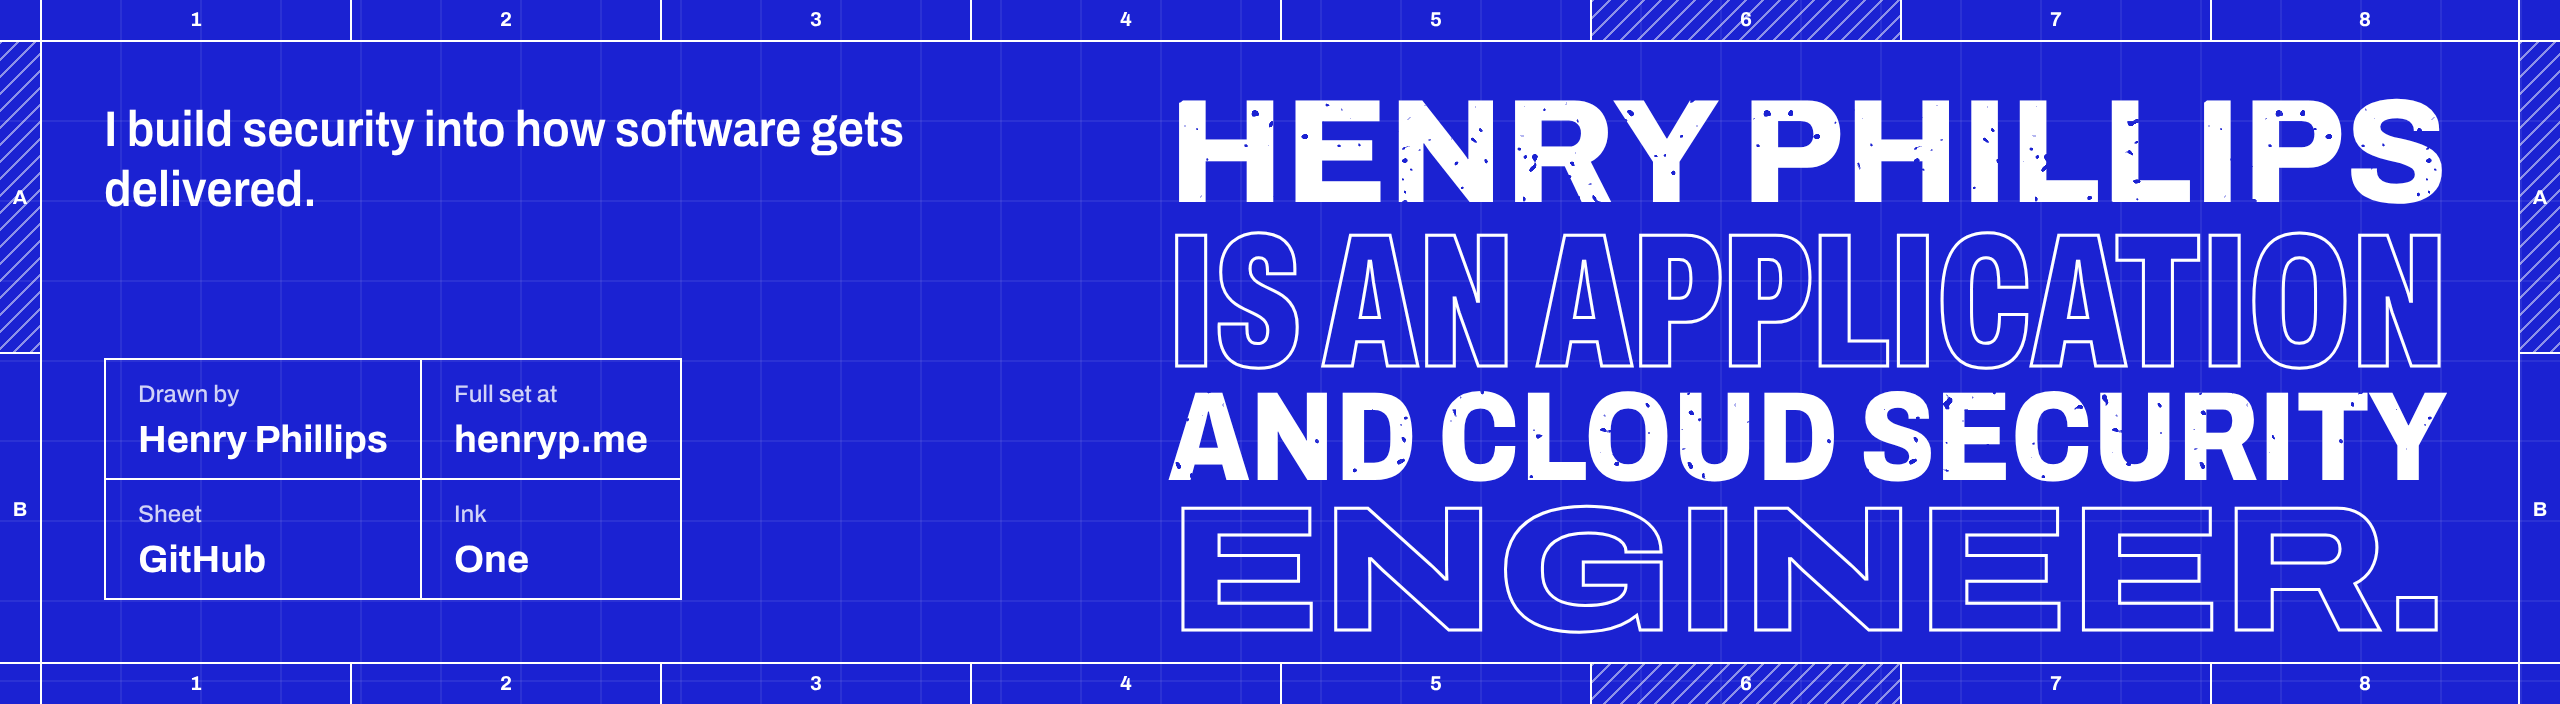
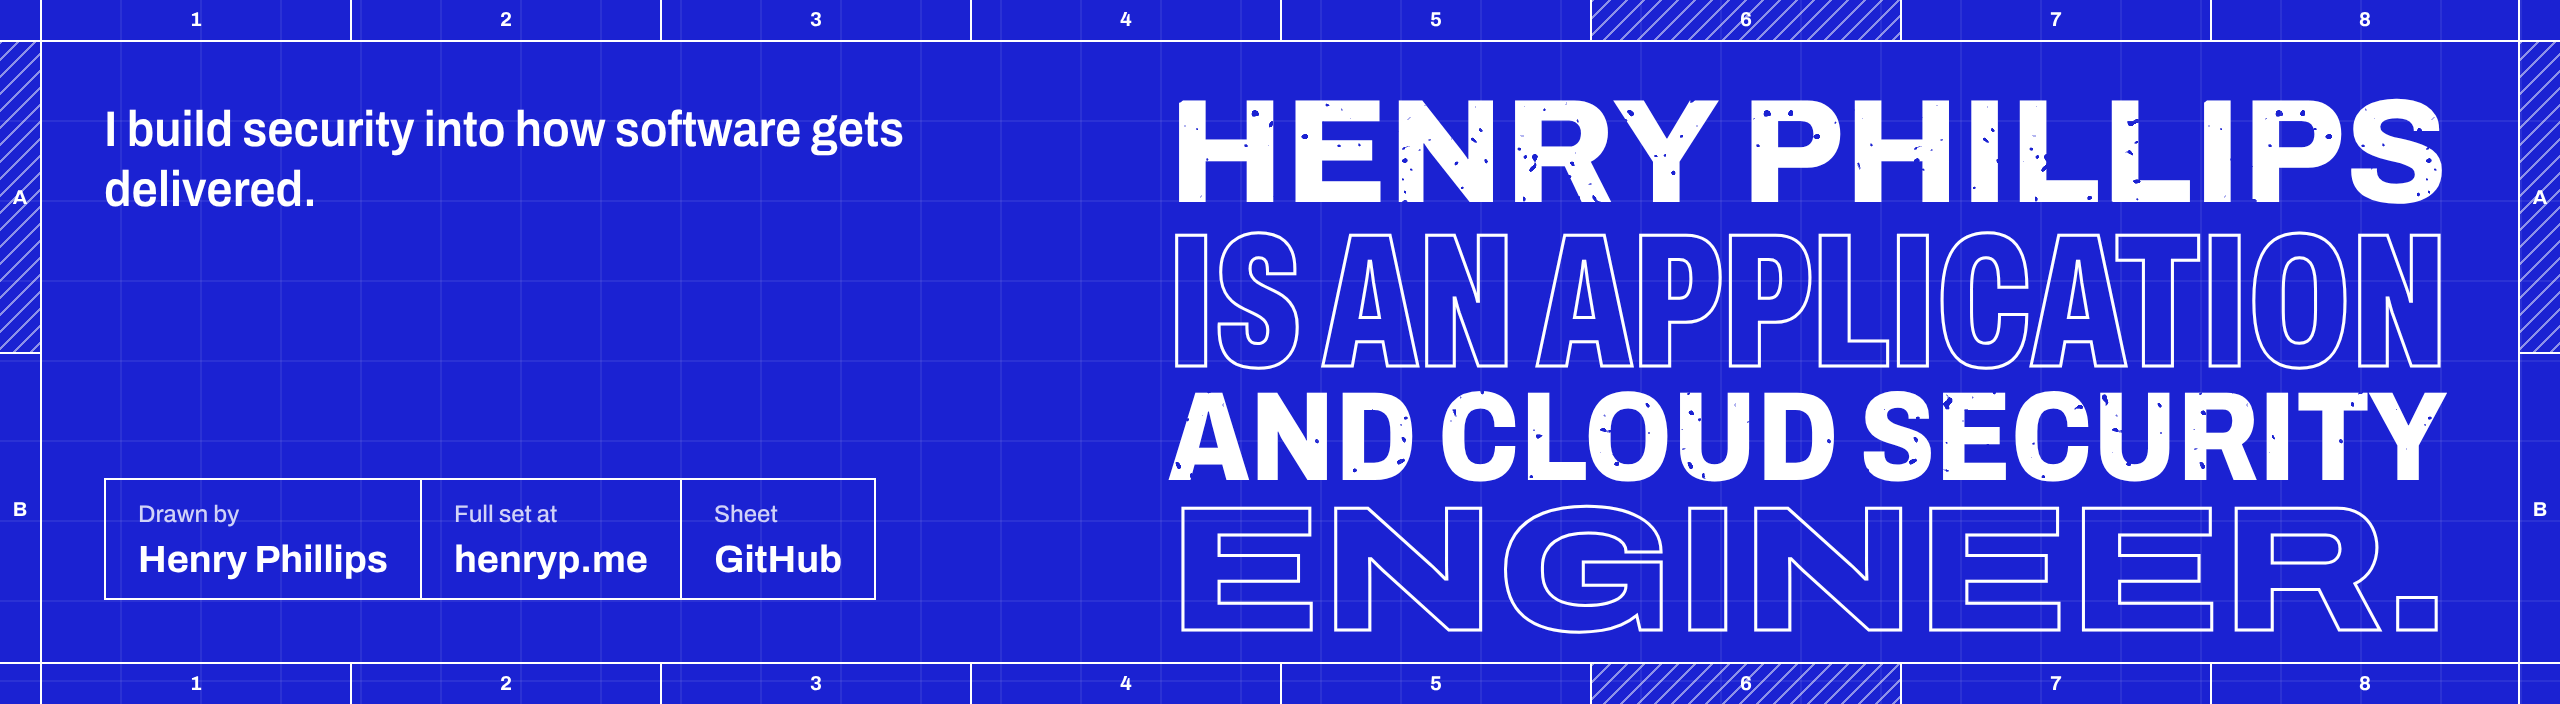
Drop the one-ink references from the profile
The banner's title block loses its "Ink: One" cell, and the general
notes lose the line about one ink and one typeface.

Claude-Session: https://claude.ai/code/session_01SGhRsYEFPaRhDfL5cFAxcx

diff --git a/README.md b/README.md
@@ -34,5 +34,4 @@ I build security into how software gets delivered: CI/CD platforms, secrets mana
 
 1. The full set of drawings is at [henryp.me](https://henryp.me): case studies, projects and the rest.
 2. Built to code: Go, Python, Java and Terraform.
-3. Drawn in one ink and set in one typeface.
-4. Also on [LinkedIn](https://www.linkedin.com/in/henryjphillips/).
+3. Also on [LinkedIn](https://www.linkedin.com/in/henryjphillips/).
